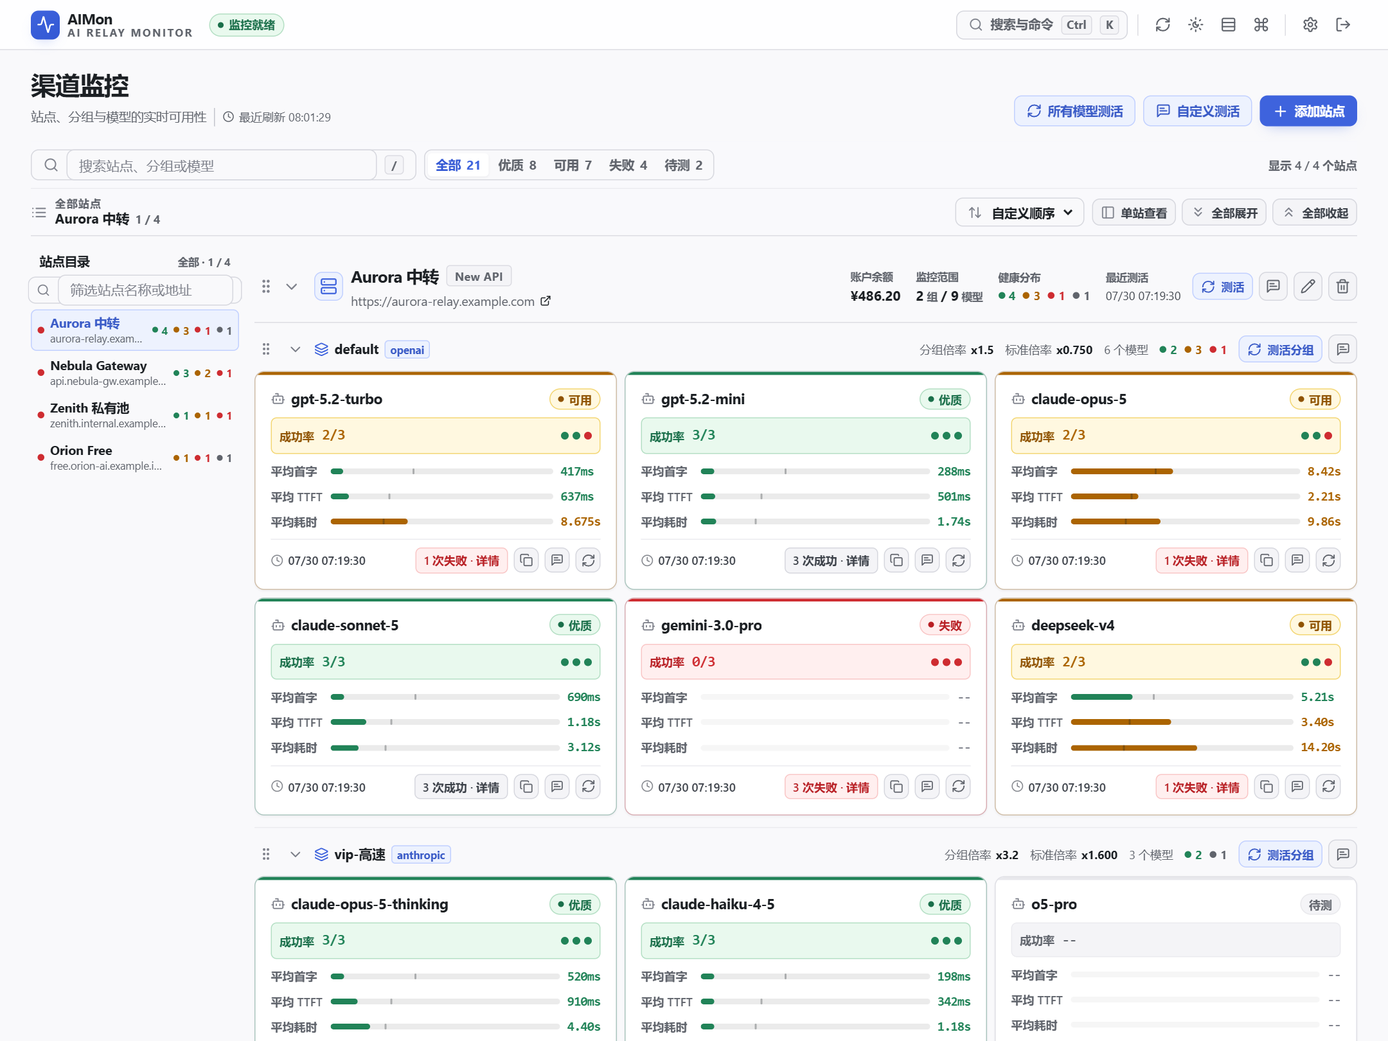
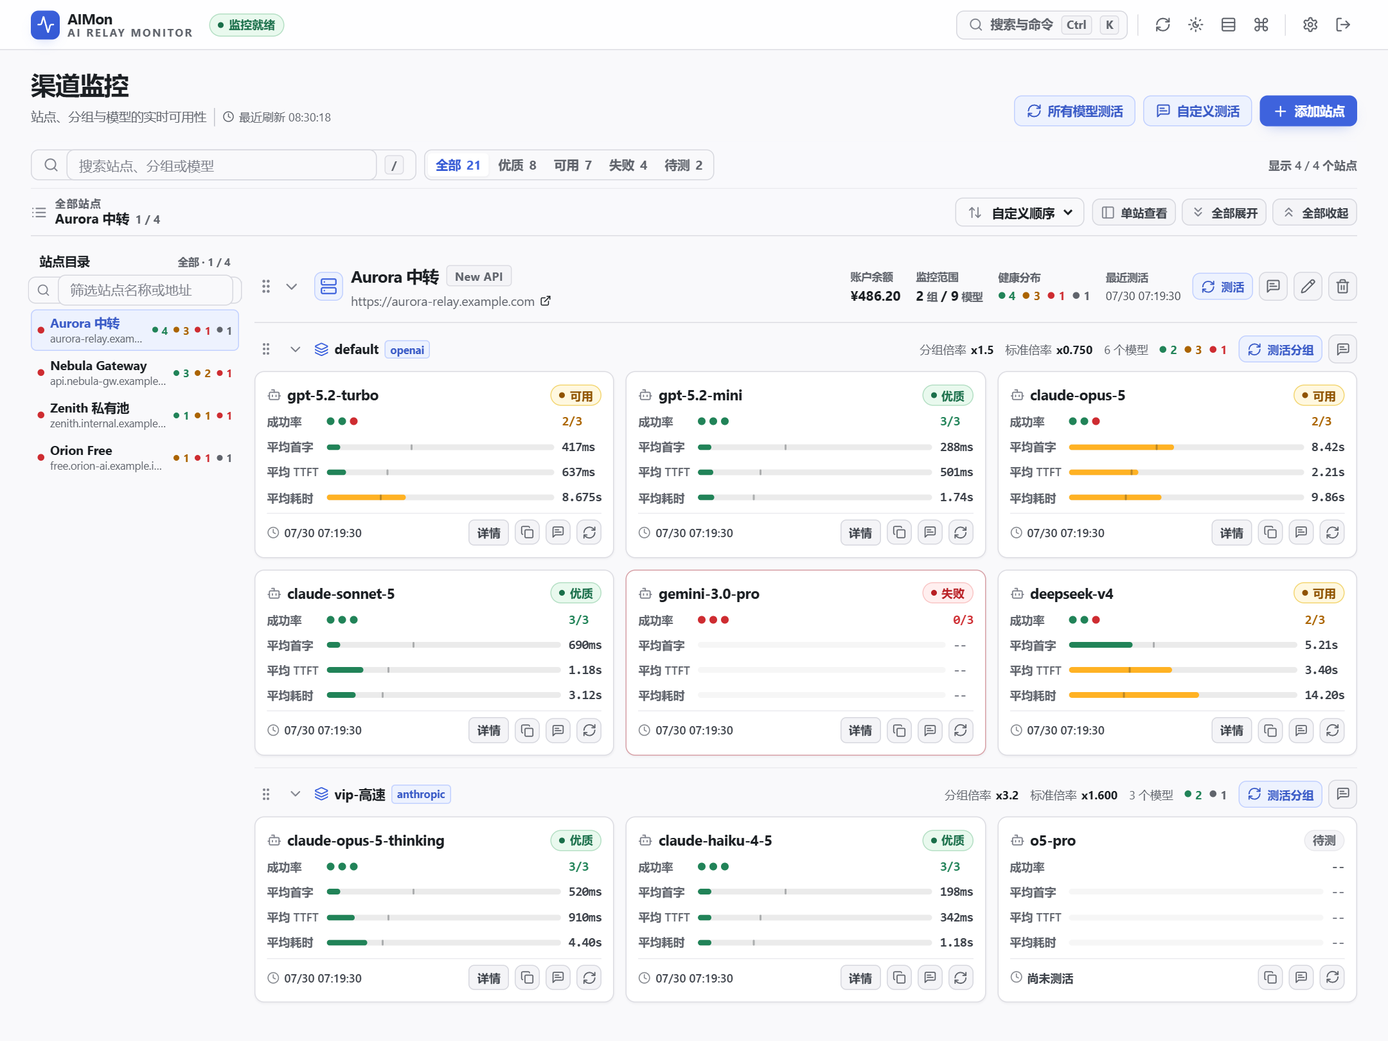
refactor(ui): shorten the model card and take colour off its frame
The card had grown to 227px (240px compact, where its footer wrapped) for
~150px of content, and it carried six separate colour channels: a 3px status
bar, a status-tinted border, a tinted success band, three tinted values, three
tinted bars, and a detail chip that turned red on a single failed request.

- Fold the success rate into `.model-metrics` as its first row (`SuccessCells`),
  so the label/value pair is not repeated one line above the grid that already
  has that shape. Saves a border, a ground and 37px.
- Split the two spacing scales that were both 8px: 12px between cards, 6px
  between rows inside one, 12px inset. At equal values the card had no inside.
- Shorten the detail link to `详情` (the tally moved two rows up, and hovering
  still reports it), which stops the compact footer wrapping.
- Drop the status bar; the border only colours for a failed round (red) or a
  running one (blue). Latency values stay ink unless they are in the red band —
  the bar beside each one already carries its colour.
- Bars use amber step 9 rather than step 11: the readable step of a yellow
  scale is brown, and as a filled bar it read as mud beside the green ones.

227 → 193 at 1440, 240 → 184 compact; the timestamp still renders in full.

diff --git a/src/styles/panels.css b/src/styles/panels.css
@@ -162,47 +162,39 @@
 /* Model cards. These are the one thing on the page that stays a card: a model is the
    object you read, compare and act on, so it gets its own edge, ground, radius and contact
    shadow. Turning them into flat cells of a table made the whole list one grey field with
-   nothing to grab. The status colour rides the top edge and tints the border, so a row of
-   cards can be scanned by colour alone. */
+   nothing to grab. The gap between cards is deliberately wider than the rhythm inside one:
+   when both were 8px the card had no inside, and a row of them read as one striped block. */
 .model-grid {
   display: grid;
   grid-template-columns: repeat(auto-fill, minmax(var(--model-card-min), 1fr));
-  gap: var(--space-3);
+  gap: var(--space-4);
   padding-bottom: var(--space-4);
 }
 .model-card {
-  --card-accent: var(--border-strong);
   position: relative;
   display: flex;
   flex-direction: column;
-  gap: var(--space-3);
+  gap: var(--space-2);
   padding: var(--card-pad);
   border-radius: var(--radius-lg);
-  border: 1px solid color-mix(in srgb, var(--card-accent) 26%, var(--border));
+  border: 1px solid var(--border);
   background: var(--surface);
   box-shadow: var(--shadow-1);
   overflow: hidden;
   min-width: 0;
   transition: border-color var(--dur-fast) var(--ease), box-shadow var(--dur-fast) var(--ease);
 }
-.model-card::before {
-  content: '';
-  position: absolute;
-  inset-inline: 0;
-  top: 0;
-  height: 3px;
-  background: var(--card-accent);
-}
 .model-card:hover {
-  border-color: color-mix(in srgb, var(--card-accent) 52%, var(--border-strong));
+  border-color: var(--border-strong);
   box-shadow: var(--shadow-2);
 }
-.model-card-excellent { --card-accent: var(--good); }
-.model-card-available { --card-accent: var(--warn); }
-.model-card-failed { --card-accent: var(--bad); }
-.model-card-pending { --card-accent: var(--idle-border); }
-.model-card.checking { --card-accent: var(--brand); }
-.model-card.queued { --card-accent: var(--brand-border); }
+/* Only two states earn the card's edge: a failure, and a round in flight. A colour band
+   plus a tinted border on every card meant four colours of frame in one screen, and the
+   healthy majority was drawn as loudly as the one model that had actually stopped
+   answering. Health itself is read from the badge, the dots and the bars inside. */
+.model-card-failed { border-color: color-mix(in srgb, var(--bad) 34%, var(--border)); }
+.model-card.checking,
+.model-card.queued { border-color: var(--brand-border); }
 
 .model-card-header { display: flex; align-items: center; justify-content: space-between; gap: var(--space-3); }
 .model-card-title { display: flex; align-items: center; gap: var(--space-2); min-width: 0; }
@@ -229,47 +221,41 @@
 }
 .model-icon { flex: none; color: var(--text-faint); display: grid; place-items: center; }
 
-/* Success band: the card's headline verdict, tinted so it reads without parsing numbers. */
-.success-readout {
-  display: flex;
-  align-items: center;
-  gap: var(--space-3);
-  padding: var(--space-2) var(--space-3);
-  border-radius: var(--radius-sm);
-  border: 1px solid var(--border-subtle);
-  background: var(--surface-sunken);
-}
-.success-readout > .metric-value { font-size: var(--text-md); font-weight: 700; }
-.success-readout > .metric-value.tone-neutral { color: var(--text-muted); font-size: var(--text-base); }
-.success-readout.tone-good { border-color: var(--good-border); background: var(--good-soft); }
-.success-readout.tone-warning { border-color: var(--warn-border); background: var(--warn-soft); }
-.success-readout.tone-bad { border-color: var(--bad-border); background: var(--bad-soft); }
-.success-readout.tone-good > .metric-label { color: var(--good-ink); }
-.success-readout.tone-warning > .metric-label { color: var(--warn-ink); }
-.success-readout.tone-bad > .metric-label { color: var(--bad-ink); }
-
 .attempt-dots { display: inline-flex; align-items: center; gap: 4px; margin-left: auto; flex: none; }
 .attempt-dots > i { width: 8px; height: 8px; border-radius: 50%; background: var(--bad); }
 .attempt-dots > i.ok { background: var(--good); }
 
-/* Shared three-column grid so labels, gauges and readouts line up across every row. */
+/* Shared three-column grid so labels, gauges and readouts line up across every row. The
+   success rate is the first row of it rather than a tinted band of its own: as a separate
+   band it repeated the grid's own label/value pair one line above it, cost the card a
+   border, a ground and 37px of height, and added a fourth tint to a card that already had
+   enough. */
 .model-metrics {
   display: grid;
   grid-template-columns: auto minmax(32px, 1fr) auto;
   align-items: center;
   gap: var(--space-2) var(--space-3);
 }
+.metric-dots { display: flex; align-items: center; min-width: 0; }
+.metric-dots .attempt-dots { margin-left: 0; }
+/* Latency numbers stay ink: the bar beside each one already carries its colour, and three
+   tinted numbers under a tinted verdict made every healthy card as loud as a broken one.
+   Red is the exception — that one is worth reading before the bar. */
+.model-metrics .metric-value.tone-good:not(.success-value),
+.model-metrics .metric-value.tone-warning:not(.success-value) { color: var(--text-soft); }
+.success-value { font-weight: 700; }
+.success-value.tone-neutral { color: var(--text-muted); }
 
 /* The footer carries one fact and four controls. It wraps rather than shrinks: a
    monitoring tool may not clip the last-checked time, and "07-30 14:2…" is exactly
    what a one-line flex row produced once the detail link and three icon buttons had
-   taken their share of a narrow card. */
+   taken their share of a narrow card. The hairline sits with equal air above and below. */
 .model-card-footer {
   display: flex;
   align-items: center;
   gap: var(--space-2) var(--space-3);
   flex-wrap: wrap;
-  padding-top: var(--space-3);
+  padding-top: var(--space-2);
   border-top: 1px solid var(--border-subtle);
 }
 .model-card-tools { display: flex; align-items: center; gap: var(--space-2); flex: none; margin-left: auto; }
@@ -306,7 +292,10 @@
   white-space: nowrap;
 }
 .attempt-link:hover { border-color: var(--control-border-hover); color: var(--text); }
-.attempt-link.has-failures { border-color: var(--bad-border); background: var(--bad-soft); color: var(--bad-ink); }
+/* No red face here. A single failed request inside an otherwise available round used to
+   paint this chip red, which made the quietest control on the card the loudest thing on
+   it — louder than the badge that says 可用. The failure is already in the dots, the
+   success value, the badge and, when the round failed outright, the card's own edge. */
 /* A live round wears the brand tint, the same language every other "in progress" state
    on the page uses, so the count reads as counting up rather than as a final tally. */
 .attempt-link.is-live { border-color: var(--brand-border); background: var(--brand-soft); color: var(--accent-ink); }

diff --git a/src/components/ModelGrid.tsx b/src/components/ModelGrid.tsx
@@ -5,7 +5,7 @@ import { fmtTime } from '../lib/format'
 import { sortModels, type HealthScope, type SortMode } from '../lib/health'
 import { copyText } from '../lib/view'
 import { AttemptModal } from './AttemptModal'
-import { IconButton, MetricGaugeCells, StatusBadge, SuccessReadout } from './primitives'
+import { IconButton, MetricGaugeCells, StatusBadge, SuccessCells } from './primitives'
 
 export function ModelGrid({ group, sortMode, onHealth, onCustomHealth, activeTargetFor, onNotice }: {
   group: GroupItem
@@ -48,8 +48,8 @@ export function ModelGrid({ group, sortMode, onHealth, onCustomHealth, activeTar
             </div>
             <StatusBadge model={model} activeTarget={activeTarget} />
           </header>
-          <SuccessReadout model={model} activeTarget={activeTarget} />
           <div className="model-metrics">
+            <SuccessCells model={model} activeTarget={activeTarget} />
             <MetricGaugeCells metric="ttfb" label="平均首字" hint="平均首字（TTFB，首个响应字节）" value={model.avgTtfbMs} />
             <MetricGaugeCells metric="ttft" label="平均 TTFT" hint="平均 TTFT（首个非空文本 token）" value={model.avgTtftMs} />
             <MetricGaugeCells metric="total" label="平均耗时" hint="平均耗时（读取完成）" value={model.avgTotalMs} />
@@ -62,13 +62,14 @@ export function ModelGrid({ group, sortMode, onHealth, onCustomHealth, activeTar
             <div className="model-card-tools">
               {attempts.length > 0 && <button
                 type="button"
-                className={`attempt-link ${live ? 'is-live' : failures ? 'has-failures' : ''}`}
+                /* The tally itself now lives in the metrics grid, so the link only has to be a
+                   door; spelling out "N 次失败" again is what pushed this row onto two lines. */
+                className={`attempt-link ${live ? 'is-live' : ''}`}
+                title={live
+                  ? `本轮测活进行中，已完成 ${attempts.length}/${model.liveAttemptCount || activeTarget?.attemptCount || attempts.length} 次 · 查看详情`
+                  : `${failures ? `${failures} 次失败` : `${model.successCount ?? successes} 次成功`} · 查看详情`}
                 onClick={() => setDetailsModelId(model.id)}
-              >
-                {live
-                  ? `第 ${attempts.length}/${model.liveAttemptCount || activeTarget?.attemptCount || attempts.length} 次 · 详情`
-                  : `${failures ? `${failures} 次失败` : `${model.successCount ?? successes} 次成功`} · 详情`}
-              </button>}
+              >详情</button>}
               <IconButton title="复制模型名称" onClick={() => void copyName(model.name)}><Copy size={14} /></IconButton>
               <IconButton
                 title="用自定义问题测活此模型"

diff --git a/src/components/primitives.tsx b/src/components/primitives.tsx
@@ -84,23 +84,24 @@ function AttemptDots({ attempts }: { attempts: HealthAttempt[] }) {
   </span>
 }
 
-/** Leading readout of a model card: the tinted band that answers "is this model healthy". */
-export function SuccessReadout({ model, activeTarget }: { model: ModelItem; activeTarget?: HealthJobTarget }) {
+/** First row of `.model-metrics`: the card's headline verdict, in the same three columns. */
+export function SuccessCells({ model, activeTarget }: { model: ModelItem; activeTarget?: HealthJobTarget }) {
   const running = activeTarget?.status === 'running'
   const tone: LatencyTone = activeTarget ? 'neutral' : successTone(model)
   /* While a round runs the dots report that round as it lands, one per finished request. */
   const dots = activeTarget ? model.liveAttempts : model.attempts
   const done = Math.max(model.liveAttempts.length, activeTarget?.attempt || 1)
   const value = running
-    ? `第${done}/${model.liveAttemptCount || activeTarget.attemptCount}次`
+    ? `${done}/${model.liveAttemptCount || activeTarget.attemptCount}`
     : activeTarget
       ? '排队'
       : model.successCount == null || model.attemptCount == null ? '--' : `${model.successCount}/${model.attemptCount}`
-  return <div className={`success-readout tone-${tone}`} title={`测活成功率：${value}`}>
-    <span className="metric-label">成功率</span>
-    <strong className={`metric-value tone-${tone}`}>{value}</strong>
-    <AttemptDots attempts={dots} />
-  </div>
+  const title = `测活成功率：${value}`
+  return <>
+    <span className="metric-label" title={title}>成功率</span>
+    <span className="metric-dots" title={title}><AttemptDots attempts={dots} /></span>
+    <span className={`metric-value success-value tone-${tone}`} title={title}>{value}</span>
+  </>
 }
 
 export function StatusBadge({ model, activeTarget }: { model: ModelItem; activeTarget?: HealthJobTarget }) {

diff --git a/src/styles/tokens.css b/src/styles/tokens.css
@@ -56,7 +56,9 @@
   /* Density-driven layout rhythm. The panel itself is frameless, so --panel-pad is
      vertical rhythm rather than an inset: only the model cards still have an inside. */
   --panel-pad: var(--space-4);
-  --card-pad: var(--space-5);
+  /* The card holds four short rows; a 16px inset around them made a 227px-tall card out of
+     ~150px of content. The inset is now one step under the gap between cards. */
+  --card-pad: var(--space-4);
   --section-gap: var(--space-5);
   /* The card has to hold a full timestamp (07-30 14:23:45) on the same line as the detail
      link and three icon controls. At 268px it could not, so the time was clipped to
@@ -67,7 +69,7 @@
 }
 [data-density='compact'] {
   --panel-pad: var(--space-3);
-  --card-pad: var(--space-4);
+  --card-pad: var(--space-3);
   --section-gap: var(--space-4);
   --model-card-min: 292px;
   --row-height: 30px;
@@ -150,6 +152,10 @@
   --warn-ink: #8f5300;
   --warn-soft: #fff8e0;
   --warn-border: #f3d673;
+  /* Step 11 of a yellow scale is brown by construction — it has to be dark enough to read
+     as small text. As a bar it read as dried mud next to the green ones, so bars use the
+     vivid step instead; a bar does not have to carry a glyph. */
+  --warn-bar: #ffb224;
 
   --bad: #ce2c31;
   --bad-ink: #b81f24;
@@ -229,6 +235,7 @@
   --warn-ink: #ffd472;
   --warn-soft: #2a1e08;
   --warn-border: #573300;
+  --warn-bar: #ffc53d;
 
   --bad: #ff6369;
   --bad-ink: #ff9592;

diff --git a/src/styles/components.css b/src/styles/components.css
@@ -238,7 +238,7 @@
   overflow: hidden;
 }
 .metric-gauge.tone-good { color: var(--good); }
-.metric-gauge.tone-warning { color: var(--warn); }
+.metric-gauge.tone-warning { color: var(--warn-bar); }
 .metric-gauge.tone-bad { color: var(--bad); }
 /* No measurement yet: a faint track rather than an outlined pill, which read as an
    empty input field sitting in the middle of the card. */

diff --git a/README.md b/README.md
@@ -58,7 +58,7 @@ AIMon 使用“**站点 → 分组 → 模型**”三级结构，一个站点就
 
 - **站点层**采用连续列表，集中展示余额、监控范围、健康分布与最后测活时间。
 - **分组层**采用扁平分区，展示远端倍率、标准倍率、模型数量和健康分布。
-- **模型层**是全页唯一保留的卡片：顶边一条状态色带，边框也按状态着色，卡内是按成功率着色的成功率条、逐次结果圆点，以及三行各自带指标条的数值，因此不必读完数字就能判断模型快慢，也能只靠颜色横扫一排卡片。
+- **模型层**是全页唯一保留的卡片：卡内是一张四行三列的网格——第一行是成功率（逐次结果圆点加分数），后三行是平均首字、平均 TTFT 和平均耗时，各自带一条指标条，因此不必读完数字就能判断模型快慢。状态由右上角徽章、逐次圆点和成功率分数承担，卡片边框只在整轮失败时转红。
 
 站点面板、分组标题、吸顶工具条和站点目录都不带边框、底色和阴影，只用标题字号和一条发丝分割线交代层级；相邻分组之间补一条发丝线，说明上一组的卡片到哪里为止。把模型也拉平成表格单元格之后，整页变成一片没有抓手的灰底，所以模型重新回到卡片：一个模型是用户真正要读、要比、要动手的对象。
 
@@ -74,11 +74,15 @@ AIMon 使用“**站点 → 分组 → 模型**”三级结构，一个站点就
 
 按钮有三种底面，靠**颜色**而不是明度区分层级：全屏唯一的品牌蓝实心主按钮（当前唯一的提交动作），各级“测活”入口共用的品牌浅底（这个工具存在的目的就是测活，它值得和主按钮同一个色系，但不必喊得一样响），以及其余控件共用的中性底面。之前整套控件全部退成灰阶，一屏灰白页面上只剩明度可以区分层级，读起来不像克制，而像没做完。输入型控件（搜索框、下拉、分段控件、文本框）使用比按钮更浅的下沉底面——输入框是一个可以往里打字的洞，按钮是一张可以按下去的面。幽灵按钮（取消 / 返回）不填充；处于开启状态的开关、分段控件里被选中的段、命令面板的键盘光标、被勾选的模型和被选中的常用问题，全部使用同一枚品牌浅底，因此“这一个是选中的”在整个应用里只有一种写法。
 
-整套颜色改用**开源色板 Radix Colors** 的成品色阶（中性用 slate，品牌用 indigo，状态用 green / amber / red），而不是手调的十六进制值：手调灰阶很难在浅色和深色两套主题里同时保持相邻两级的对比一致，之前那版偏冷的自制灰读起来发脏。状态色取的是可读性色阶（step 11）而不是最鲜艳的那一级，绿 / 黄 / 红并排出现时不会互相刺眼。状态色仍然只服务两件事：健康度（徽章、成功率条、指标条、健康圆点用绿 / 黄 / 红 / 灰）和“链接 / 聚焦 / 正在进行”（测活进行中的卡片、任务条、运行状态胶囊和进度条转蓝）。平台标签这类"事实"保持中性，避免和旁边的健康色抢读。阴影短而贴近，卡片读起来像一张压在画布上的纸，而不是悬在半空。模型卡片与“详情”弹窗里的每次请求都用顶边一条色带表示状态；卡片边框也按同一状态色混入一点，因此一排卡片可以只靠颜色横扫。
+整套颜色改用**开源色板 Radix Colors** 的成品色阶（中性用 slate，品牌用 indigo，状态用 green / amber / red），而不是手调的十六进制值：手调灰阶很难在浅色和深色两套主题里同时保持相邻两级的对比一致，之前那版偏冷的自制灰读起来发脏。状态色取的是可读性色阶（step 11）而不是最鲜艳的那一级，绿 / 黄 / 红并排出现时不会互相刺眼；只有指标条上的黄档例外，改用鲜艳的 step 9——黄色系的 step 11 天生是棕色（它必须暗到能当小字读），当成一条条填充的横条时看起来像旁边绿条边上的一摊泥。状态色仍然只服务两件事：健康度（徽章、逐次圆点、成功率分数和指标条用绿 / 黄 / 红 / 灰）和“链接 / 聚焦 / 正在进行”（测活进行中的卡片、任务条、运行状态胶囊和进度条转蓝）。平台标签这类"事实"保持中性，避免和旁边的健康色抢读。阴影短而贴近，卡片读起来像一张压在画布上的纸，而不是悬在半空。
+
+模型卡片上的颜色只留在真正表示状态的地方。它原先同时有一条顶边色带、一圈按状态着色的边框、一条着色的成功率带、三个着色的数值和三条着色的指标条：四种颜色的卡框在一屏里同时出现时，健康的多数被画得和唯一那个不再回话的模型一样响，而“一次失败”还会把最安静的“详情”按钮染成整张卡上最红的东西。现在色带去掉，边框只在整轮失败（红）和测活进行中（蓝）时变色，三个平均值保持墨色、只有落进红档才转红，颜色留给徽章、逐次圆点、成功率分数和指标条本身——一个数值旁边已经有一条替它着色的横条，不必两个都喊。“详情”弹窗里的每次请求仍保留顶边色带：那里一次只读一轮，色带是这一次请求的标签，不是一排卡片的底噪。
 
 字号与尺寸整体收了一档：标题栏 52px，站点名 17px，模型名与正文 14px，按钮 32px 高、图标按钮 30px，紧凑密度再各降一档。原来的尺寸在 1440px 下一屏只放得下一个站点。
 
 模型卡片的最小宽度是 324px（紧凑密度 292px），卡片底部一行放不下时会**换行**而不是压缩：那一行同时有“最近测活”时间、“详情”入口和三个图标按钮，卡片一旦太窄，被截断的一定是时间（`07-30 14:2…`），而这恰好是监控工具最不该省的那个事实。
+
+卡内节奏与卡间距是**两套刻度**：卡片之间 12px，卡片自己的行距 6px，内边距 12px。两者都是 8px 时，卡片看起来没有“里面”，一排卡片读起来像一整块条纹。成功率也不再是一条单独的着色横带，而是并进指标网格当第一行——作为独立横带时，它把网格自己的“标签 + 数值”结构又重复了一遍，还额外吃掉一圈边框、一层底色和 37px 高度。“详情”按钮上原先写着“N 次失败 / N 次成功”，这个数字在它上方两行就有，去掉之后紧凑密度下的底部一行不再换行。这一版之后 1440px 下卡片从 227px 降到 193px，紧凑密度从 240px 降到 184px。
 
 主题按钮是**双态开关**，不是三态轮换：它总是从当前实际生效的主题翻到另一边，因此每次点击屏幕一定会变化——原来的“跟随系统 → 浅色 → 深色”轮换在系统本身就是浅色时，第一次点击什么都不会发生，看起来就是按钮坏了。“主题跟随系统”移到命令面板里（当前不是跟随系统时才出现）。主题在首帧之前由 `index.html` 里的内联脚本写入，因此深色模式刷新不会闪一下白屏，浏览器地址栏配色也跟着切换。
 
@@ -95,7 +99,7 @@ AIMon 使用“**站点 → 分组 → 模型**”三级结构，一个站点就
 | 站点 / 分组 / 模型对话气泡图标 | 用自定义问题测活该范围 |
 | 模型刷新图标 | 只测活当前模型 |
 | 模型复制图标 | 复制模型名称 |
-| “N 次失败 / N 次成功 · 详情” | 查看本轮每一次测活的耗时、状态码、错误以及自定义问题的回复原文；测活进行中显示为“第 N/M 次 · 详情”，并随每次请求刷新 |
+| 模型卡片“详情” | 查看本轮每一次测活的耗时、状态码、错误以及自定义问题的回复原文；悬停显示本轮成功 / 失败次数，测活进行中显示已完成次数，并随每次请求刷新 |
 | 右上角排序选择器 | 在自定义顺序、智能推荐、响应最快、成功率最高和名称之间切换 |
 | “单站查看” | 聚焦当前站点；再次选择同一站点会重新展开 |
 | 展开/收起操作栏 | 批量更新站点及其分组，并保持当前阅读位置 |
@@ -338,7 +342,7 @@ TTFT 只适用于能够观察到文本流的请求。非流式请求、Embedding
 | 平均 TTFT | `< 2s` | `2s – < 6s` | `≥ 6s` |
 | 平均耗时 | `< 6s` | `6s – < 20s` | `≥ 20s` |
 
-同一色标同时作用于卡片上的数值和指标条，以及“详情”弹窗中每一次请求的首字、TTFT 和耗时。
+同一色标同时作用于模型卡片上的指标条，以及“详情”弹窗中每一次请求的首字、TTFT 和耗时。卡片上的三个平均值本身保持墨色，只有落进红档才转红：旁边的指标条已经替它着了色。
 
 测活结果按成功比例分级：
 
